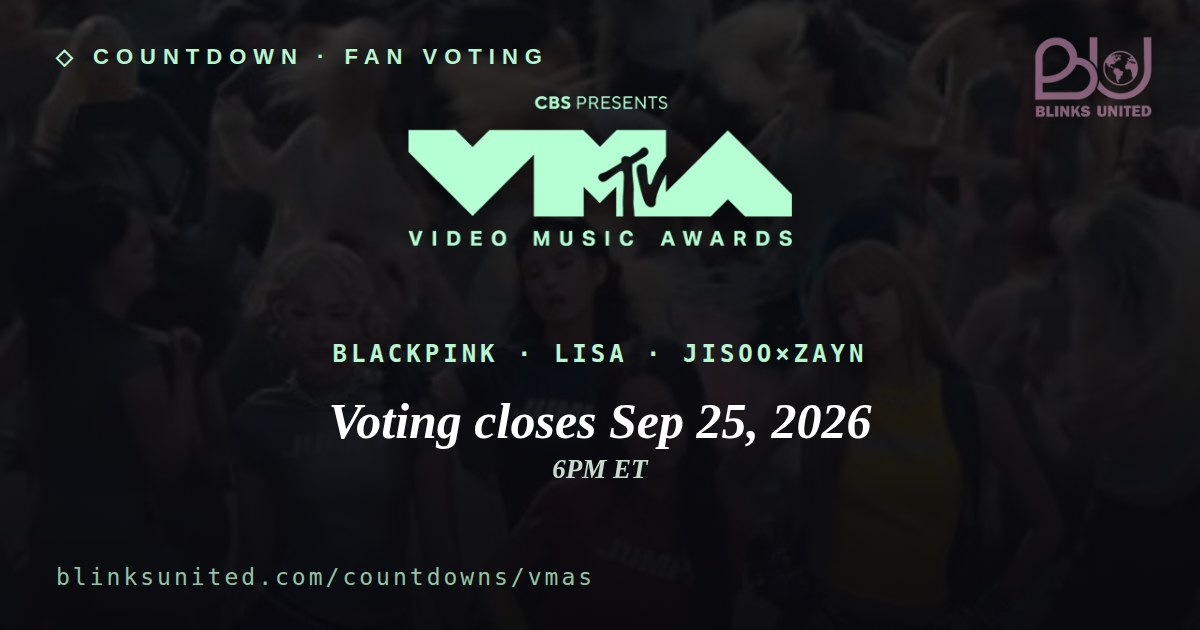
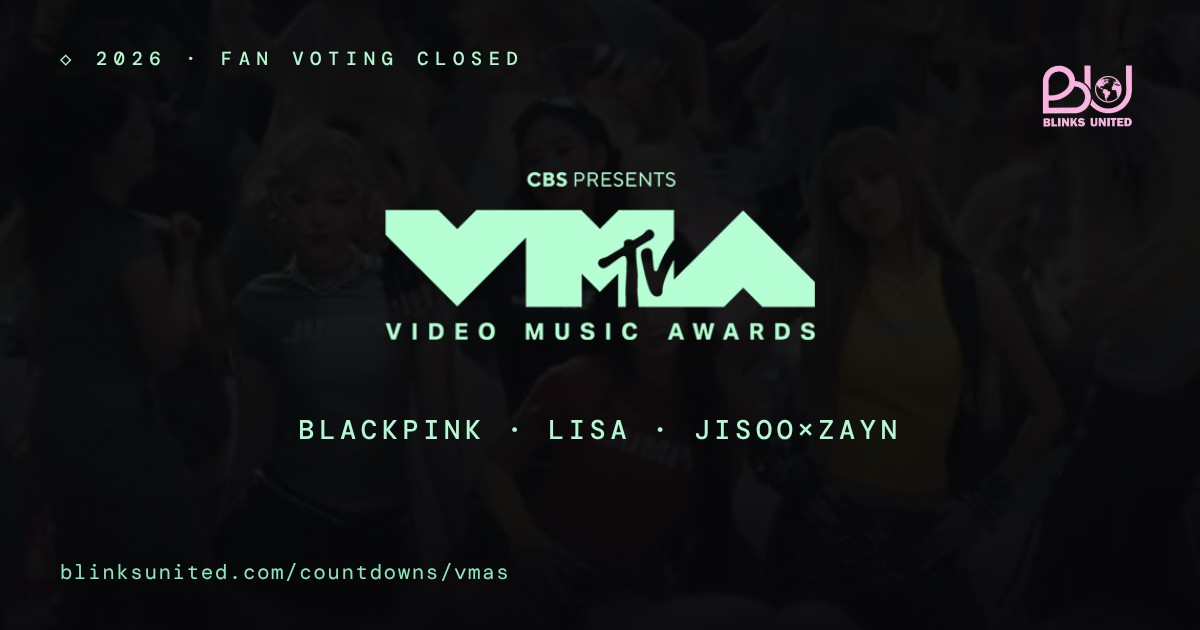
Two link previews that were still advertising a closed ballot
Both are the same failure: a preview is the half of a page that nothing
on screen ever shows you, so it keeps saying whatever it said last.

── /countdowns/vmas ──

Title, description AND picture all announced "voting closes Sep 25" —
in the middle of November, two months after the ceremony. The card in
index.html had been switched to "Fan Voting Closed" the day the ballot
shut; this had not, and the difference is invisible unless you share the
link to somebody.

The picture is rebuilt from the parts already in the repo (the JUMP
still, the VMA lockup, our own mark) with the dated line gone. Nothing
has taken its place: the ballot shutting is now in the eyebrow, in the
past tense, where it cannot read as an instruction. Title and
description say what is settled — who was nominated, that voting closed,
and that LISA won Best Pop.

Which corrects the rule I wrote into render_og_cards.mjs yesterday. It
is not "no words on a card", it is "nothing on a card that expires". A
result cannot go stale; a date in the future always does.

── /breaktudo ──

Its description still read "Voting is open until Oct 17". Now: voting
closed, winners at the ceremony in São Paulo on 24 November 2026.

Three sentences in the page had stopped being true along with it — the
nominations intro offering a daily vote limit on a shut ballot, the
standings note ending "Voting is still open until the 17th, so none of
this is final", and the rules in the future tense. Corrected to the
[…]

diff --git a/breaktudo.html b/breaktudo.html
@@ -4,11 +4,11 @@
 <meta charset="UTF-8">
 <title>BLACKPINK at the 2026 BreakTudo Awards</title>
 <meta name="viewport" content="width=device-width, initial-scale=1">
-<meta name="description" content="BLACKPINK, JENNIE, LISA, JISOO and BLINKs are nominated in 8 categories at the 2026 BreakTudo Awards. Where to vote, the rules, and where we stand in the partial rankings.">
+<meta name="description" content="BLACKPINK, JENNIE, LISA, JISOO and BLINKs are nominated in 8 categories at the 2026 BreakTudo Awards. Voting has closed — the winners are revealed at the ceremony in São Paulo on 24 November 2026.">
 <meta name="theme-color" content="#080808">
 <meta property="og:site_name" content="Blinks United">
 <meta property="og:title" content="BLACKPINK at the 2026 BreakTudo Awards">
-<meta property="og:description" content="Nominated in 8 categories. Voting is open until Oct 17 — here is where to vote and where we stand.">
+<meta property="og:description" content="Nominated in 8 categories. Voting closed on Oct 17 — the winners are revealed at the ceremony in São Paulo on 24 November 2026.">
 <meta property="og:url" content="https://www.blinksunited.com/breaktudo">
 <meta property="og:image" content="https://www.blinksunited.com/og-awards.jpg">
 <meta property="og:image:width" content="1200">
@@ -17,7 +17,7 @@
 <meta property="og:type" content="website">
 <meta name="twitter:card" content="summary_large_image">
 <meta name="twitter:title" content="BLACKPINK at the 2026 BreakTudo Awards">
-<meta name="twitter:description" content="Nominated in 8 categories. Voting is open until Oct 17 — here is where to vote and where we stand.">
+<meta name="twitter:description" content="Nominated in 8 categories. Voting closed on Oct 17 — the winners are revealed at the ceremony in São Paulo on 24 November 2026.">
 <meta name="twitter:image" content="https://www.blinksunited.com/og-awards.jpg">
 <link rel="preconnect" href="https://fonts.googleapis.com">
 <link rel="preconnect" href="https://fonts.gstatic.com" crossorigin>
@@ -100,6 +100,22 @@
     text-decoration: none; display: inline-block; transition: filter .15s, transform .15s; }
   .cta-btn:hover { filter: brightness(1.08); transform: translateY(-1px); }
   .cta-note { margin-top: 0.7rem; text-align: center; font-family: var(--mono); font-size: 0.6rem; letter-spacing: 0.06em; color: var(--muted); }
+
+  /* ── Where to watch ──
+     Shown once the ballot is shut, which is when "where do I see it" is the
+     only question the page can still answer. Reads as one quiet block under
+     the countdown rather than a section of its own: it is four facts, and a
+     full-width heading over four facts is a page pretending to have more to
+     say than it has. */
+  .watch { margin: 1.5rem auto 0; max-width: 40rem; border: 1px solid var(--border);
+    border-radius: 12px; padding: 1rem 1.1rem; text-align: center; }
+  .watch-hd { font-family: var(--mono); font-size: 0.58rem; letter-spacing: 0.16em;
+    text-transform: uppercase; color: var(--pink); margin-bottom: 0.55rem; }
+  .watch-when { font-family: var(--mono); font-size: 0.82rem; color: var(--white); line-height: 1.5; }
+  .watch-when b { color: var(--pink); font-weight: 500; }
+  .watch-where { font-family: var(--mono); font-size: 0.66rem; line-height: 1.75;
+    color: var(--muted); margin-top: 0.6rem; }
+  .watch-where b { color: rgba(245,240,240,0.9); font-weight: 500; }
 
   /* ── Sections ── */
   .section { padding: 2.6rem 0 0; }
@@ -279,6 +295,18 @@
       <a class="cta-btn" href="https://vote.breaktudoawards.com/" target="_blank" rel="noopener noreferrer">🗳 Vote now ↗</a>
     </div>
     <div class="cta-note" id="cta-note">Opens vote.breaktudoawards.com · winners revealed Nov 24</div>
+
+    <!-- The ceremony, as BreakTudo themselves announce it. Not a schedule we
+         worked out: every line here is from the award's own site, which is
+         the only thing that can say where it will be shown. -->
+    <div class="watch" id="watch" hidden>
+      <div class="watch-hd">The ceremony</div>
+      <div class="watch-when"><b>Tue 24 November 2026</b> &middot; S&atilde;o Paulo</div>
+      <div class="watch-where">
+        Live on the <b>BreakTudo</b> and <b>Telemil&ecirc;nio</b> channels on YouTube, and on <b>Yeeaah TV</b>.<br>
+        Also on <b>Box Brazil Play</b>, through <b>Prime Video</b> and <b>Claro TV</b>.
+      </div>
+    </div>
   </div>
 </section>
 
@@ -288,7 +316,7 @@
     <div class="pr-table" id="pr-table"></div>
     <!-- Below the table, not above it: this explains what you have just read,
          and above it was the last thing between the reader and the standings. -->
-    <div class="pr-note">BreakTudo publishes a <b>top 5 per category</b> while voting runs. Each partial counts <b>every vote since voting opened on 17 September</b> — they are running totals, not separate rounds, so holding a place across a longer window means the lead held as more votes came in. The <b>fourth is the last</b>, published 11 October and counting votes to <b>10 October</b> — and it is a special edition that lists <b>all eight</b> places per category instead of five. That is why BLINKs finally show a number rather than “Not top 5”: nothing moved, we can simply see further down the list. Voting is still open until the 17th, so none of this is final.</div>
+    <div class="pr-note">BreakTudo publishes a <b>top 5 per category</b> while voting runs. Each partial counts <b>every vote since voting opened on 17 September</b> — they are running totals, not separate rounds, so holding a place across a longer window means the lead held as more votes came in. The <b>fourth is the last</b>, published 11 October and counting votes to <b>10 October</b> — and it is a special edition that lists <b>all eight</b> places per category instead of five. That is why BLINKs finally show a number rather than “Not top 5”: nothing moved, we can simply see further down the list. Voting has since closed, so this is the last partial there will be — the standings below are where the ballot ended, not where it finished.</div>
     <button class="pr-share" id="pr-share" type="button" onclick="shareStandings(this)">↑ Share these standings</button>
     <div class="pr-legend" id="pr-legend"></div>
     <div id="pr-sources"></div>
@@ -297,7 +325,7 @@
 
 <section class="section">
   <div class="wrap">
-    <p class="hero-sub noms-intro">BLACKPINK, JENNIE, LISA, JISOO and BLINKs are up for <b>8 awards</b>. No account, no app, no daily limit — you can vote as many times as you like until the ballot closes.</p>
+    <p class="hero-sub noms-intro">BLACKPINK, JENNIE, LISA, JISOO and BLINKs are up for <b>8 awards</b>. No account, no app and no daily limit while the ballot was open — it closed on <b>Oct 17</b>, and the winners come at the ceremony.</p>
     <div class="section-head" id="noms-head">Nominations</div>
     <div class="noms" id="noms"></div>
   </div>
@@ -431,7 +459,7 @@
     'No account and no app — vote straight at <b>vote.breaktudoawards.com</b>.',
     'Cast in <b>sequences of 5</b>, clear the Cloudflare check, then hit <b>“Enviar Votos”</b>.',
     '<b>No total limit.</b> The page refreshes after each batch so you can keep going — and every category is separate, so vote in all eight.',
-    'Voting runs to <b>Oct 17, 23:59 BRT</b> (Brasília time).',
+    'Voting ran to <b>Oct 17, 23:59 BRT</b> (Brasília time) and is now closed.',
     'Winners are revealed <b>Nov 24, 2026</b>.',
   ];
 
@@ -828,6 +856,10 @@
       if (row) row.style.display = 'none';
       var note = document.getElementById('cta-note');
       if (note) note.textContent = 'The ballot is closed — nothing more can be cast';
+      // "Where do I watch it" is the only question left once nobody can vote,
+      // so this appears on the same condition that takes the Vote button away.
+      var watch = document.getElementById('watch');
+      if (watch) watch.hidden = false;
       return;
     }
     var d = Math.floor(diff / 86400000);

diff --git a/middleware.js b/middleware.js
@@ -89,9 +89,19 @@ const COUNTDOWNS = {
     description: "Counting down to LISA's “Leave With Me”, her song for the documentary ALWAYS LALISA, out Nov 18, 2026. No release time announced yet — the countdown runs to midnight where you are.",
     image: '/og-countdown-leavewithme.jpg',
   },
+  // PAST TENSE, and it stays that way. This entry announced "voting closes
+  // Sep 25" — title, description and the picture all three — until the middle
+  // of November, because a preview is the one part of a page that nothing on
+  // screen ever shows you. The card itself in index.html had been switched to
+  // "Fan Voting Closed" the day the ballot shut; this had not, and nobody
+  // could see the difference without sharing the link to somebody.
+  //
+  // So every claim here is now a settled one: an award that was held, a
+  // ballot that shut, a list of who was nominated, a result. Write nothing in
+  // this file that has to be revisited on a date.
   'vmas': {
-    title: '2026 VMAs — voting closes Sep 25 | Countdown · BLINKS UNITED',
-    description: 'BLACKPINK, LISA and JISOO x ZAYN are nominated at the 2026 VMAs. Fan voting closes Sep 25, 6PM ET.',
+    title: '2026 VMAs — BLACKPINK, LISA and JISOO × ZAYN | Countdown · BLINKS UNITED',
+    description: 'BLACKPINK, LISA and JISOO × ZAYN were nominated at the 2026 VMAs. Fan voting closed Sep 25 — LISA won Best Pop for “Dream”.',
     image: '/og-countdown-vmas.jpg',
   },
 };
